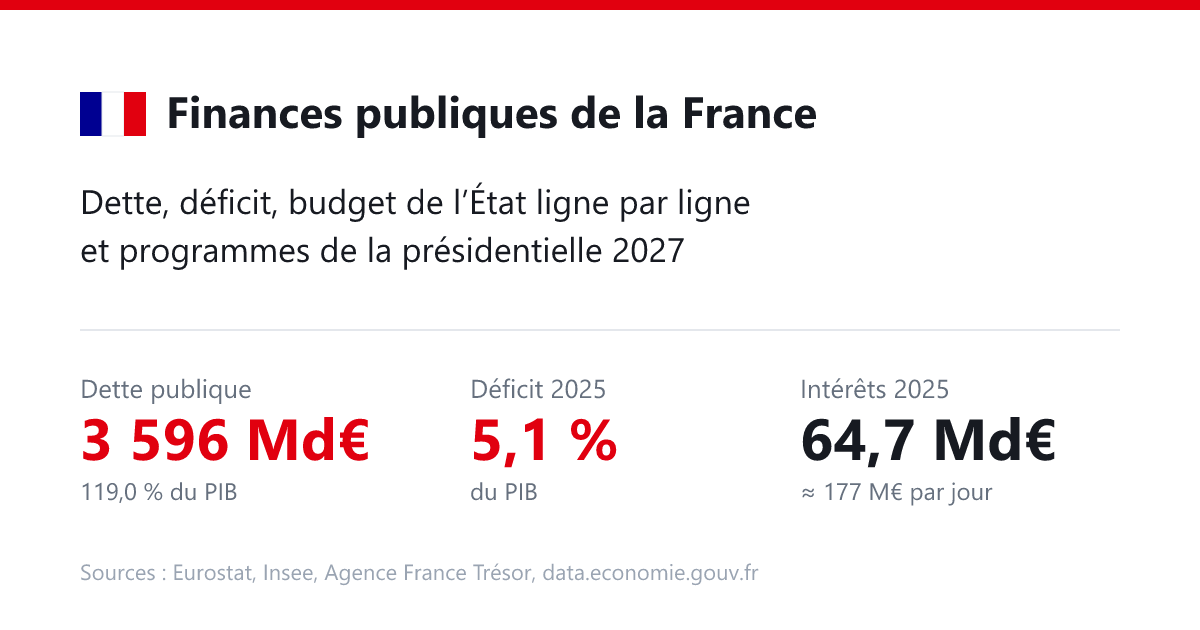
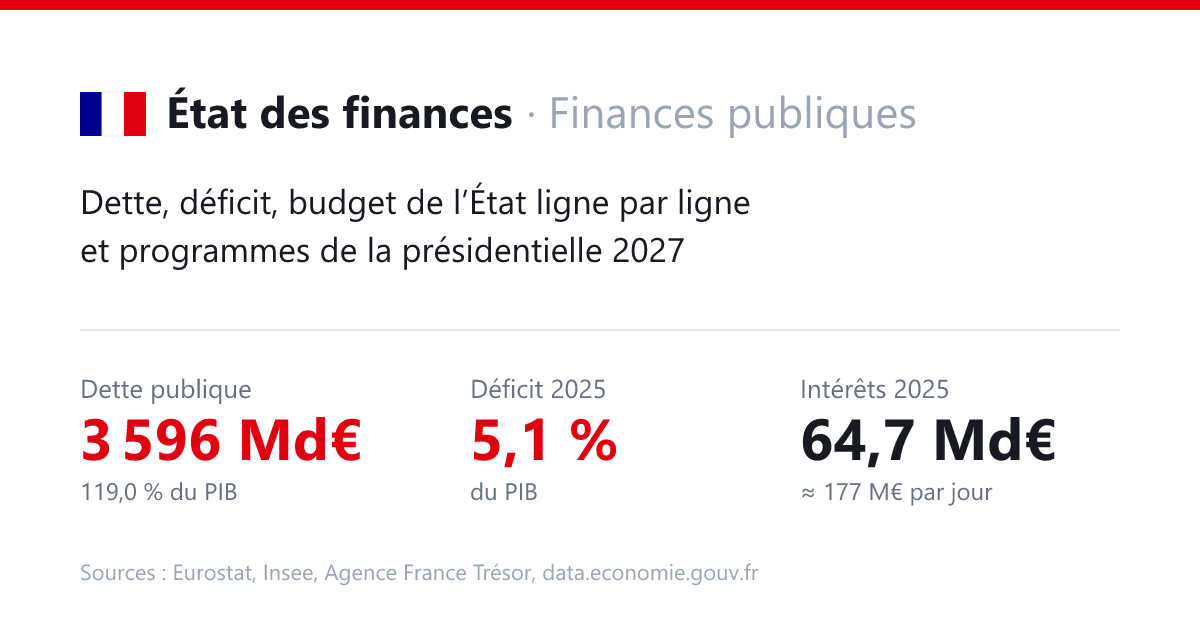
updates, scheduled refresh
updates, scheduled refresh

Changed region(s): [[0.1542, 0.1508, 0.7708, 0.2111], [0.0925, 0.6635, 0.3083, 0.754]]

diff --git a/src/App.jsx b/src/App.jsx
@@ -2,7 +2,7 @@ import React, { Suspense, lazy, useEffect, useState } from 'react'
 import Overview from './components/Overview.jsx'
 import { apu } from './data/apu.js'
 import { debtLatest } from './data/data.js'
-import { ROUTES, SECTIONS, ALIAS, routeOf, rLabel, rTitle, rDescription, sLabel, siteName } from './routes.js'
+import { ROUTES, SECTIONS, ALIAS, routeOf, rLabel, rTitle, rDescription, sLabel, siteName, langOf, withLang } from './routes.js'
 import { fmt, pct, bn } from './lib/format.js'
 import { T, getLang, setLang } from './i18n.js'
 import { Analytics } from '@vercel/analytics/react'
@@ -39,7 +39,7 @@ function setMeta(r) {
   document.title = r.path === '/' ? rTitle(r) : `${rTitle(r)} | ${siteName()}`
   document.querySelector('meta[name="description"]')?.setAttribute('content', rDescription(r))
   const canon = document.querySelector('link[rel="canonical"]')
-  if (canon) canon.setAttribute('href', new URL(r.path, canon.href).href)
+  if (canon) canon.setAttribute('href', new URL(withLang(r.path, getLang()), canon.href).href)
 }
 
 // Drapeaux du sélecteur de langue.
@@ -56,19 +56,28 @@ const FlagEN = () => (
 
 export default function App() {
   const [route, setRoute] = useState(() => routeOf(location.pathname) || ROUTES[0])
+  // Langue : l'adresse fait foi (/en/...). Ancien paramètre ?lang=en et préférence enregistrée redirigés vers la bonne adresse.
   const [lang, setLangState] = useState(() => {
     const q = new URLSearchParams(location.search).get('lang')
-    if (q === 'en' || q === 'fr') setLang(q)
-    else setLang(getLang())
-    return getLang()
+    const stored = getLang()
+    const l = langOf(location.pathname) === 'en' ? 'en' : q === 'en' || q === 'fr' ? q : stored
+    setLang(l)
+    const r = routeOf(location.pathname) || ROUTES[0]
+    const want = withLang(r.path, l)
+    if (want !== location.pathname || q) history.replaceState(null, '', want + location.hash)
+    return l
   })
-  const switchLang = l => { setLang(l); setLangState(l) }
+  const switchLang = l => { setLang(l); setLangState(l); history.pushState(null, '', withLang(route.path, l)) }
 
   useEffect(() => {
     // Anciennes adresses en #ancre -> vraie page.
     const h = location.hash.slice(1)
-    if (ALIAS[h]) { history.replaceState(null, '', ALIAS[h]); setRoute(routeOf(ALIAS[h])) }
-    const onPop = () => setRoute(routeOf(location.pathname) || ROUTES[0])
+    if (ALIAS[h]) { history.replaceState(null, '', withLang(ALIAS[h], getLang())); setRoute(routeOf(ALIAS[h])) }
+    const onPop = () => {
+      const l = langOf(location.pathname)
+      if (l !== getLang()) { setLang(l); setLangState(l) }
+      setRoute(routeOf(location.pathname) || ROUTES[0])
+    }
     // Navigation interne sans rechargement pour tous les liens du site.
     const onClick = e => {
       const a = e.target.closest('a[href^="/"]')
@@ -76,7 +85,7 @@ export default function App() {
       const r = routeOf(a.getAttribute('href'))
       if (!r) return
       e.preventDefault()
-      history.pushState(null, '', r.path)
+      history.pushState(null, '', withLang(r.path, getLang()))
       setRoute(r)
       scrollTo({ top: 0 })
     }
@@ -89,26 +98,25 @@ export default function App() {
   return (
     <div className="app">
       <header>
-        <a href="/" className="brand"><span className="flag" aria-hidden="true"><i /><i /><i /></span>{siteName()}</a>
+        <a href={withLang('/', lang)} className="brand"><span className="flag" aria-hidden="true"><i /><i /><i /></span>{siteName()}</a>
+        <span className="langs" role="group" aria-label={T('Langue', 'Language')}>
+          <button className={lang === 'fr' ? 'on' : ''} onClick={() => switchLang('fr')} title="Français" aria-label="Français" aria-pressed={lang === 'fr'}><FlagFR /></button>
+          <button className={lang === 'en' ? 'on' : ''} onClick={() => switchLang('en')} title="English" aria-label="English" aria-pressed={lang === 'en'}><FlagEN /></button>
+        </span>
         <div className="banner">
           <span>{T('Dépenses', 'Spending')} <b>{bn(apu.depenses[i], 0)}</b> {pct(apu.depensesPct[i])} {T('du PIB', 'of GDP')}</span>
           <span>{T('Recettes', 'Revenue')} <b className="good">{bn(apu.recettes[i], 0)}</b></span>
           <span>{T('Déficit', 'Deficit')} <b className="bad">{pct(-apu.soldePct[i])}</b></span>
           <span>{T('Dette', 'Debt')} <b className="bad">{bn(debtLatest.total, 0)}</b> {pct(debtLatest.pct)}</span>
           <span>{T('Intérêts', 'Interest')} <b>{bn(apu.interets[i])}</b></span>
-          <span className="banner-src">{apu.years[i]} · Eurostat, Insee, AFT</span>
-          <span className="langs" role="group" aria-label={T('Langue', 'Language')}>
-            <button className={lang === 'fr' ? 'on' : ''} onClick={() => switchLang('fr')} title="Français" aria-label="Français" aria-pressed={lang === 'fr'}><FlagFR /></button>
-            <button className={lang === 'en' ? 'on' : ''} onClick={() => switchLang('en')} title="English" aria-label="English" aria-pressed={lang === 'en'}><FlagEN /></button>
-          </span>
         </div>
       </header>
       <nav aria-label={T('Rubriques', 'Sections')}>
-        {SECTIONS.map(x => <a key={x.id} href={x.path} className={x.id === route.section ? 'on' : ''} aria-current={x.id === route.section ? 'page' : undefined}>{sLabel(x)}</a>)}
+        {SECTIONS.map(x => <a key={x.id} href={withLang(x.path, lang)} className={x.id === route.section ? 'on' : ''} aria-current={x.id === route.section ? 'page' : undefined}>{sLabel(x)}</a>)}
       </nav>
       {ROUTES.filter(r => r.section === route.section).length > 1 && (
         <nav className="subnav" aria-label={sLabel(SECTIONS.find(x => x.id === route.section))}>
-          {ROUTES.filter(r => r.section === route.section).map(r => <a key={r.id} href={r.path} className={(r.id === route.id ? 'on' : '') + (r.badge ? ' ' + r.badge : '')} aria-current={r.id === route.id ? 'page' : undefined}>{rLabel(r)}</a>)}
+          {ROUTES.filter(r => r.section === route.section).map(r => <a key={r.id} href={withLang(r.path, lang)} className={(r.id === route.id ? 'on' : '') + (r.badge ? ' ' + r.badge : '')} aria-current={r.id === route.id ? 'page' : undefined}>{rLabel(r)}</a>)}
         </nav>
       )}
       <main key={lang}>

diff --git a/src/components/Overview.jsx b/src/components/Overview.jsx
@@ -8,6 +8,9 @@ import { Sparkline } from '../lib/charts.jsx'
 import { fmt, bn, pct, unitBn } from '../lib/format.js'
 import { T } from '../i18n.js'
 import { dt } from '../data/dataEn.js'
+import { withLang } from '../routes.js'
+import { getLang } from '../i18n.js'
+const lp = p => withLang(p, getLang())
 
 const i = apu.years.length - 1
 const Y = +apu.years[i]
@@ -17,7 +20,7 @@ const years = apu.years.map(Number)
 // Chaque ligne : [libellé, montant, libellé court, couleur?]
 const revenueLines = () => {
   const L = [
-    [T('Impôts sur la production et les importations (TVA, accises…)', 'Production and import taxes (VAT, excise…)'), apu.impotsProduction[i], T('Impôts sur la production (TVA…)', 'Production taxes (VAT…)')],
+    [T('Impôts sur la production et les importations (TVA, accises…)', 'Production and import taxes (VAT, excise…)'), apu.impotsProduction[i], T('TVA et taxes sur la production', 'VAT and production taxes')],
     [T('Cotisations sociales', 'Social contributions'), apu.cotisationsSociales[i]],
     [T('Impôts sur le revenu et le patrimoine (IR, CSG, IS)', 'Income and wealth taxes (income tax, CSG, corporate tax)'), apu.impotsRevenuPatrimoine[i], T('Impôts sur le revenu et le patrimoine', 'Income and wealth taxes')],
     [T('Ventes de services', 'Sales of services'), apu.ventes[i]],
@@ -114,16 +117,16 @@ export default function Overview() {
         sub={T(`Pour 100 € de recettes, ${fmt(apu.depenses[i] / apu.recettes[i] * 100)} € de dépenses. La dette a augmenté de ${bn(apu.dette[i] - apu.dette[i - 1])} en ${Y}.`, `For every €100 of revenue, €${fmt(apu.depenses[i] / apu.recettes[i] * 100)} of spending. Debt rose by ${bn(apu.dette[i] - apu.dette[i - 1])} in ${Y}.`)}
         src={[SRC.eurostatMain, SRC.inseeDebtQ]}>
         <div className="tiles flow">
-          <Tile href="/recettes" title={T('Recettes', 'Revenue')} value={fmt(apu.recettes[i])} unit sub={`${pct(apu.recettesPct[i])} ${gdp} · ${years[0]}-${Y}`} color="var(--green)" tone="good"
+          <Tile href={lp('/recettes')} title={T('Recettes', 'Revenue')} value={fmt(apu.recettes[i])} unit sub={`${pct(apu.recettesPct[i])} ${gdp} · ${years[0]}-${Y}`} color="var(--green)" tone="good"
             spark={apu.recettesPct} items={[[T('Cotisations sociales', 'Social contributions'), bn(apu.cotisationsSociales[i], 0)], [T('Taxe sur la valeur ajoutée', 'Value-added tax (VAT)'), bn(apu.tva[i], 0)], [T('Impôts sur revenus et sociétés', 'Income and corporate taxes'), bn(apu.impotsRevenuPatrimoine[i], 0)]]} />
           <span className="eq-op">−</span>
-          <Tile href="/depenses" title={T('Dépenses', 'Spending')} value={fmt(apu.depenses[i])} unit sub={`${pct(apu.depensesPct[i])} ${gdp} · ${years[0]}-${Y}`} color="var(--blue)" tone="blue"
+          <Tile href={lp('/depenses')} title={T('Dépenses', 'Spending')} value={fmt(apu.depenses[i])} unit sub={`${pct(apu.depensesPct[i])} ${gdp} · ${years[0]}-${Y}`} color="var(--blue)" tone="blue"
             spark={apu.depensesPct} items={[[T('Prestations sociales', 'Social benefits'), bn(apu.prestationsSociales[i], 0)], [T('Rémunérations', 'Public pay'), bn(apu.remunerations[i], 0)], [T('Investissement', 'Investment'), bn(apu.fbcf[i], 0)]]} />
           <span className="eq-op">=</span>
-          <Tile href="/financement" title={T('Déficit', 'Deficit')} value={'−' + fmt(gap)} unit sub={`${pct(-apu.soldePct[i])} ${gdp} · ${T('financé par l’emprunt', 'financed by borrowing')}`} color="var(--orange)" tone="bad"
+          <Tile href={lp('/financement')} title={T('Déficit', 'Deficit')} value={'−' + fmt(gap)} unit sub={`${pct(-apu.soldePct[i])} ${gdp} · ${T('financé par l’emprunt', 'financed by borrowing')}`} color="var(--orange)" tone="bad"
             spark={apu.soldePct.map(v => -v)} items={[[T('À emprunter en 2026', 'To borrow in 2026'), bn(need, 0)], [T('dont dette à rembourser', 'of which maturing debt'), bn(financing2026.needs[0].v, 0)], [T('Obligation à 10 ans (OAT)', '10-year bond (OAT)'), pct(aft.spot10.v, 2)]]} />
           <span className="eq-op">→</span>
-          <Tile href="/dette" title={T('Dette', 'Debt')} value={fmt(debtLatest.total, 0)} unit sub={`${pct(debtLatest.pct)} ${gdp} · ${dl}`} color="var(--red)" tone="bad"
+          <Tile href={lp('/dette')} title={T('Dette', 'Debt')} value={fmt(debtLatest.total, 0)} unit sub={`${pct(debtLatest.pct)} ${gdp} · ${dl}`} color="var(--red)" tone="bad"
             spark={[...apu.dettePct, debtLatest.pct]} items={[[T('Intérêts ', 'Interest ') + Y, bn(apu.interets[i])], [T('Taux moyen', 'Average rate'), pct(apu.tauxApparent[i], 2)], [T('Hausse en ', 'Rise in ') + Y, bn(apu.dette[i] - apu.dette[i - 1], 0)]]} />
         </div>
       </Card>

diff --git a/src/styles.css b/src/styles.css
@@ -13,9 +13,9 @@ code { font-size: 12.5px; background: var(--soft); padding: 1px 5px; border-radi
 .up { color: var(--red) } .dn { color: var(--green) } .r { text-align: right }
 
 .app { max-width: 1180px; margin: 0 auto; padding: 22px 16px 18px }
-header { display: flex; flex-direction: column; gap: 4px; margin-bottom: 10px }
+header { display: flex; flex-direction: column; gap: 4px; margin-bottom: 10px; position: relative }
+header .brand { padding-right: 76px }
 .brand { display: inline-flex; align-items: center; gap: 9px; font-size: 21px; font-weight: 700; letter-spacing: -.015em; color: var(--tx); text-decoration: none !important }
-.banner-src { font-size: 11px; color: #9aa4b2; margin-left: auto }
 .sr-only { position: absolute; width: 1px; height: 1px; padding: 0; margin: -1px; overflow: hidden; clip: rect(0, 0, 0, 0); white-space: nowrap; border: 0 }
 .loading { color: var(--mut); min-height: 200px }
 h1 { font-size: 21px; margin: 0; letter-spacing: -.015em; display: flex; align-items: center; gap: 9px }
@@ -348,7 +348,7 @@ footer.disclaimer a { color: inherit; text-decoration: underline }
 .card.group > .ctl-row + .card { border-top: 0; padding-top: 0 }
 
 /* Sélecteur de langue */
-.langs { display: inline-flex; gap: 4px; margin-left: 10px }
+.langs { display: inline-flex; gap: 4px; position: absolute; top: 4px; right: 0 }
 .langs button { display: inline-flex; padding: 3px 4px; border: 1.5px solid transparent; border-radius: 6px; background: none; cursor: pointer; opacity: .55; line-height: 0 }
 .langs button:hover { opacity: 1 }
 .langs button.on { opacity: 1; border-color: var(--tx) }
@@ -380,3 +380,5 @@ a.ind:hover { border-color: #c7ccd4 }
 .ind-c { display: flex; gap: 5px; letter-spacing: -.01em; color: var(--tx) } .ind-c span, .ind-c i { color: var(--mut); font-style: normal } .ind-c .fr { color: var(--blue) } .ind-c .us { color: #b76a14 } .ind-c i.up { color: var(--red) }
 .ind-key.tog { font: inherit; color: inherit; background: var(--card); border: 1px solid var(--line); border-radius: 99px; padding: 1px 9px; cursor: pointer; margin-left: 4px } .ind-key.tog:hover { border-color: #c7ccd4 } .ind-key.tog.off { opacity: .45; text-decoration: line-through }
 .ind-c .cn { color: #b00e28 }
+.h4-note { float: right; font-weight: 400; text-transform: none; letter-spacing: 0; color: var(--mut); font-size: 11px }
+.bar-v { overflow: hidden; text-overflow: ellipsis }

diff --git a/src/components/Polls.jsx b/src/components/Polls.jsx
@@ -142,7 +142,7 @@ function PollsLive() {
 
       <div className="grid2 flat poll-top">
         <div>
-          <h4>{inst ? T(`Intentions de vote, ${inst}`, `Voting intentions, ${inst}`) : T(`Intentions de vote, moyenne sur ${WINDOW} jours`, `Voting intentions, ${WINDOW}-day average`)}</h4>
+          <h4>{inst ? T(`Intentions de vote, ${inst}`, `Voting intentions, ${inst}`) : T(`Intentions de vote, moyenne sur ${WINDOW} jours`, `Voting intentions, ${WINDOW}-day average`)}<span className="h4-note">{T('écart ', 'change ')}{view.deltaLabel}</span></h4>
           <div className="bars ranking">
             {view.rows.map(r => {
               const pv = view.prev(r.name), d = pv != null ? r.v - pv : null
@@ -150,7 +150,7 @@ function PollsLive() {
                 <div key={r.name} className="bar-row">
                   <span className="bar-n"><i className="dot-c" style={{ background: colorOf(r.party) }} />{r.name} <span className="mut">({r.party})</span></span>
                   <span className="bar-t"><span className="bar-f" style={{ width: `${r.v / max * 100}%`, background: colorOf(r.party) }} /></span>
-                  <span className="bar-v"><b>{pct(r.v, r.v % 1 ? 1 : (inst ? 0 : 1))}</b><span className={'bar-p ' + (d == null ? '' : d > 0.25 ? 'dn' : d < -0.25 ? 'up' : '')}>{d == null ? T('nouveau', 'new') : Math.abs(d) < 0.05 ? T(`stable ${view.deltaLabel}`, `unchanged ${view.deltaLabel}`) : `${signed(d)} pt ${view.deltaLabel}`}</span></span>
+                  <span className="bar-v"><b>{pct(r.v, r.v % 1 ? 1 : (inst ? 0 : 1))}</b><span className={'bar-p ' + (d == null ? '' : d > 0.25 ? 'dn' : d < -0.25 ? 'up' : '')}>{d == null ? T('nouveau', 'new') : Math.abs(d) < 0.05 ? T('stable', 'unchanged') : `${signed(d)} pt`}</span></span>
                 </div>
               )
             })}

diff --git a/src/components/Etat.jsx b/src/components/Etat.jsx
@@ -3,6 +3,9 @@ import { THEMES, COUNT, series } from '../data/etat.js'
 import { Card } from './ui.jsx'
 import { fmt, pct, signed } from '../lib/format.js'
 import { T, isEn } from '../i18n.js'
+import { withLang } from '../routes.js'
+import { getLang } from '../i18n.js'
+const lp = p => withLang(p, getLang())
 
 const FR_C = 'var(--blue)', EU_C = '#9aa4b2', US_C = '#e08a2c', CN_C = '#c8102e', PAIR_C = 'var(--red)'
 const L = (fr, en) => T(fr, en)
@@ -59,7 +62,7 @@ function Trend({ fr, eu, us, cn, pair, zero, onHover, hover }) {
   const hv = hover != null && fr.find(p => p[0] === hover)
   return (
     <div ref={ref} className="ind-trend">
-      <svg width={W} height={H} viewBox={`0 0 ${W} ${H}`} onPointerMove={move} onPointerDown={move} onPointerLeave={() => onHover(null)}>
+      <svg aria-hidden="true" width={W} height={H} viewBox={`0 0 ${W} ${H}`} onPointerMove={move} onPointerDown={move} onPointerLeave={() => onHover(null)}>
         {zero && lo < 0 && <line x1={pad} x2={W - pad} y1={Y(0)} y2={Y(0)} className="ind-zero" />}
         {eu.length > 1 && <path d={d(eu)} fill="none" stroke={EU_C} strokeWidth={1.3} strokeDasharray="3 2" />}
         {us.length > 1 && <path d={d(us)} fill="none" stroke={US_C} strokeWidth={1.3} />}
@@ -102,7 +105,7 @@ function Indicator({ m, show }) {
     : pair.length ? <><span className="fr">{L('naissances', 'births')}</span><i className="up">{L('décès', 'deaths')} {val(m, pair.at(-1)[1])}</i></> : cmp(null)
   const Tag = m.link ? 'a' : 'div'
   return (
-    <Tag className="ind" href={m.link}>
+    <Tag className="ind" href={m.link && lp(m.link)}>
       <div className="ind-h"><span>{L(m.fr, m.en)}</span><em>{latest ? qLabel : last[0]}</em></div>
       <div className="ind-v">
         <b>{val(m, head)}</b>{suffix && <small>{suffix}</small>}

diff --git a/src/routes.js b/src/routes.js
@@ -2,8 +2,8 @@
 // Partagé par l'application et scripts/seo.mjs (les pages statiques référencées sont en français).
 import { T } from './i18n.js'
 
-export const SITE_NAME = 'Finances publiques de la France'
-export const SITE_NAME_EN = 'French public finances'
+export const SITE_NAME = 'État des finances'
+export const SITE_NAME_EN = 'État des finances'
 export const siteName = () => T(SITE_NAME, SITE_NAME_EN)
 
 // Deux rubriques principales, chacune déclinée en sous-pages.
@@ -69,7 +69,12 @@ export const ALIAS = {
   election: '/presidentielle-2027', presidentielle: '/presidentielle-2027', polls: '/sondages-presidentielle-2027', sondages: '/sondages-presidentielle-2027', etat: '/etat-de-la-france',
 }
 
+// Langue portée par l'adresse : /en/... pour l'anglais, sans préfixe pour le français.
+export const langOf = path => (/^\/en(\/|$)/.test(path) ? 'en' : 'fr')
+export const stripLang = path => path.replace(/^\/en(?=\/|$)/, '') || '/'
+export const withLang = (path, lang) => (lang === 'en' ? '/en' + (path === '/' ? '' : path) : path)
+
 export const routeOf = path => {
-  const p = path.replace(/\/+$/, '') || '/'
+  const p = stripLang(path).replace(/\/+$/, '') || '/'
   return ROUTES.find(r => r.path === p) || (p === '/carte' ? ROUTES[0] : undefined)
 }

diff --git a/src/components/Financing.jsx b/src/components/Financing.jsx
@@ -23,7 +23,7 @@ export default function Financing() {
       <Card title={T('Comment l’État couvre ses besoins 2026', 'How the State covers its 2026 needs')} sub={T('Md€, loi de finances 2026', `${unitBn()}, 2026 budget law`)} src={SRC.lfi2026}>
         <Waterfall height={240} fmt={v => fmt(v, v < 10 ? 1 : 0)} items={[
           { label: T('Dette à rembourser', 'Maturing debt'), value: n[0].v, sub: T('obligations à échéance', 'bonds to repay'), color: 'var(--blue)' },
-          { label: T('Déficit de l’État', 'State deficit'), value: n[1].v, sub: T('emprunt nouveau', 'new borrowing'), color: 'var(--red)' },
+          { label: T('Déficit de l’État', 'State deficit'), value: n[1].v, sub: T('État seul, budget 2026', 'State only, 2026 budget'), color: 'var(--red)' },
           { label: T('Autres besoins', 'Other needs'), value: +(n[2].v + n[3].v).toFixed(1), sub: T('SNCF Réseau, trésorerie', 'SNCF Réseau, cash'), color: 'var(--orange)' },
           { label: T('Besoin total', 'Total need'), value: +need.toFixed(1), kind: 'total', color: 'var(--tx)' },
           { label: T('Émissions', 'Issuance'), value: financing2026.issuance, kind: 'total', sub: T('nettes des rachats', 'net of buybacks'), color: 'var(--green)' },

diff --git a/src/components/Election.jsx b/src/components/Election.jsx
@@ -10,6 +10,9 @@ import { Card, Kpi, Seg } from './ui.jsx'
 import { LineChart } from '../lib/charts.jsx'
 import { bn, fmt, pct, signed, unitBn } from '../lib/format.js'
 import { T, isEn } from '../i18n.js'
+import { withLang } from '../routes.js'
+import { getLang } from '../i18n.js'
+const lp = p => withLang(p, getLang())
 
 const S = k => SOURCES[k]
 const PROJ = YEARS.filter(y => y >= 2026)
@@ -124,7 +127,7 @@ function Intro({ onPick }) {
       </div>
       {blackout
         ? <p className="mentions">{T(`Sondages suspendus la veille et le jour du ${blackout.label} (loi du 19 juillet 1977), jusqu’au ${blackout.end}.`, `Polls suspended the day before and the day of the ${blackout.labelEn} (law of 19 July 1977), until ${blackout.endEn}.`)}</p>
-        : <><div className="poll-meta"><PollStatus state={state} /><a href="/sondages-presidentielle-2027">{T('Tous les sondages →', 'All polls →')}</a></div><PollMentions /></>}
+        : <><div className="poll-meta"><PollStatus state={state} /><a href={lp('/sondages-presidentielle-2027')}>{T('Tous les sondages →', 'All polls →')}</a></div><PollMentions /></>}
     </Card>
   )
 }

diff --git a/index.html b/index.html
@@ -13,7 +13,7 @@
 <link rel="apple-touch-icon" href="/apple-touch-icon.png" />
 <meta property="og:type" content="website" />
 <meta property="og:locale" content="fr_FR" />
-<meta property="og:site_name" content="Finances publiques de la France" />
+<meta property="og:site_name" content="État des finances" />
 <meta property="og:title" content="Finances publiques de la France : dette, déficit, dépenses et recettes" />
 <meta property="og:description" content="Dette publique, déficit, dépenses et recettes de la France en chiffres et en graphiques, à partir des données officielles d’Eurostat, de l’Insee et de l’Agence France Trésor." />
 <meta property="og:url" content="/" />

diff --git a/README.md b/README.md
@@ -1,6 +1,6 @@
 # Finances publiques de la France
 
-Dette, déficit, recettes et dépenses de la France à partir des données officielles, budget de l’État ligne par ligne, simulateur des programmes de la présidentielle 2027 et sondages en direct.
+Dette, déficit, recettes et dépenses de la France à partir des données officielles, budget de l’État ligne par ligne, simulateur des programmes de la présidentielle 2027, sondages en direct et « État de la France » : 26 indicateurs macroéconomiques sur longue période comparés à l’UE, aux États-Unis et à la Chine.
 
 ## Lancer en local
 
@@ -21,6 +21,7 @@ Importer le dépôt dans Vercel (préréglage Vite, sortie `dist`). Définir la 
 - `src/data/data.js` : chiffres curés et sourcés (Insee, COFOG, AFT, loi de finances 2026).
 - `src/data/election2027.js` : scénario de référence, plan du gouvernement et une entrée par parti (mesures, analyses indépendantes, sources).
 - `src/data/polls-snapshot.json` : instantané de secours des sondages (Wikipédia), rafraîchi par `npm run polls` et à chaque build ; le site charge la version en direct.
+- `src/data/etat-series.json` : séries de l’« État de la France » (Eurostat, Insee, Banque mondiale, FMI, Réserve fédérale, Nations unies), rafraîchies par `npm run etat` (liste dans `scripts/etat-specs.json`).
 - `public/og.png` : image d’aperçu, régénérée par `npm run og`.
 
 ## Moteur de projection
